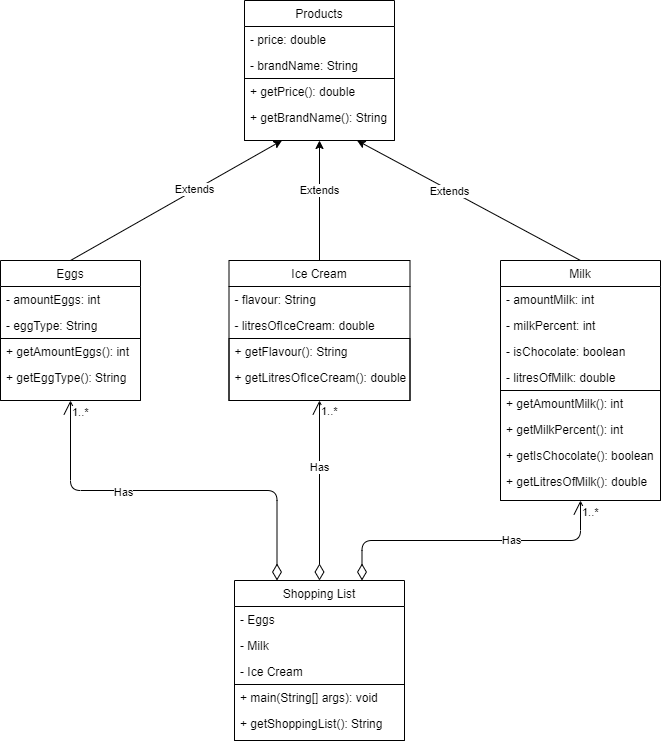
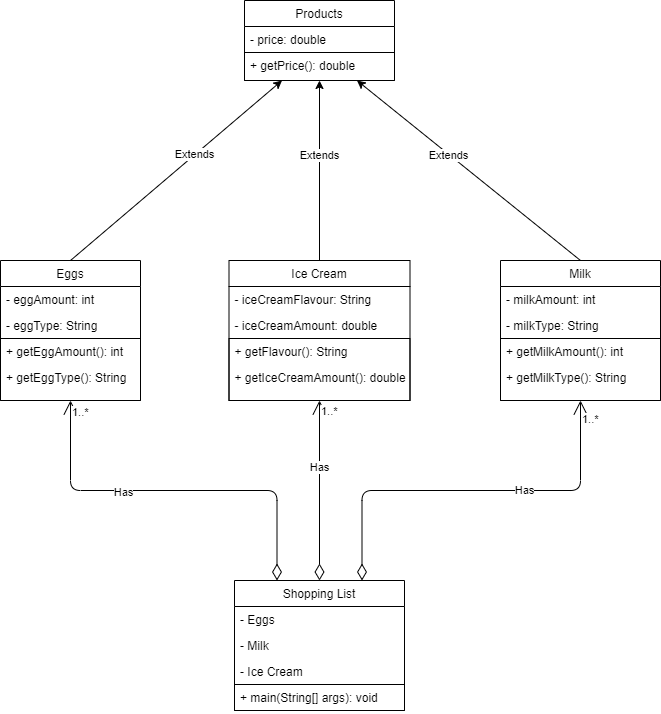
Updated Summary and Class Diagram

diff --git a/README.md b/README.md
@@ -5,4 +5,4 @@
 ![Image of Class Diagram](https://github.com/SACHSTech/oop-assignment-DouglasLau895-rm/blob/main/ICS4UOOPAssignmentClassDiagram.png)
 
 ## Summary
-The system that is being modelled is a grocery shopping app. This grocery store has limited items and only sells premium eggs, milk, and ice cream. The user can select items and browse their shopping cart before checking out. The shopping list has selections between eggs, milk, and ice cream, this is a has-a relationship or an aggregation relationship as the shopping list *has* eggs, milk, and ice cream. The eggs, milk, and ice cream are products, this is an is-a relatioinship or an inheritence realtionship. Once the user completes their product selection they will have an option for pick-up or delivery, but delivery will include a delivery fee. The user will then head to checkout, the subtotal, tax, and total are calculated and user inputs payment method. Either an estimated time of arrival is given if the user selected the delivery option or a pick-up time is given. 
+The system that is being modelled is a grocery shopping app. This grocery store has limited items and only sells premium eggs, milk, and ice cream. The user can select items and browse their shopping cart before checking out. The shopping list has selections between eggs, milk, and ice cream, this is a has-a relationship or an aggregation relationship as the shopping list *has* eggs, milk, and ice cream. The eggs, milk, and ice cream are products, this is an is-a relatioinship or an inheritence realtionship. Once the user completes their product selection they will head to checkout, the subtotal, tax, and total are calculated and user enters username and password to complete payment. 
